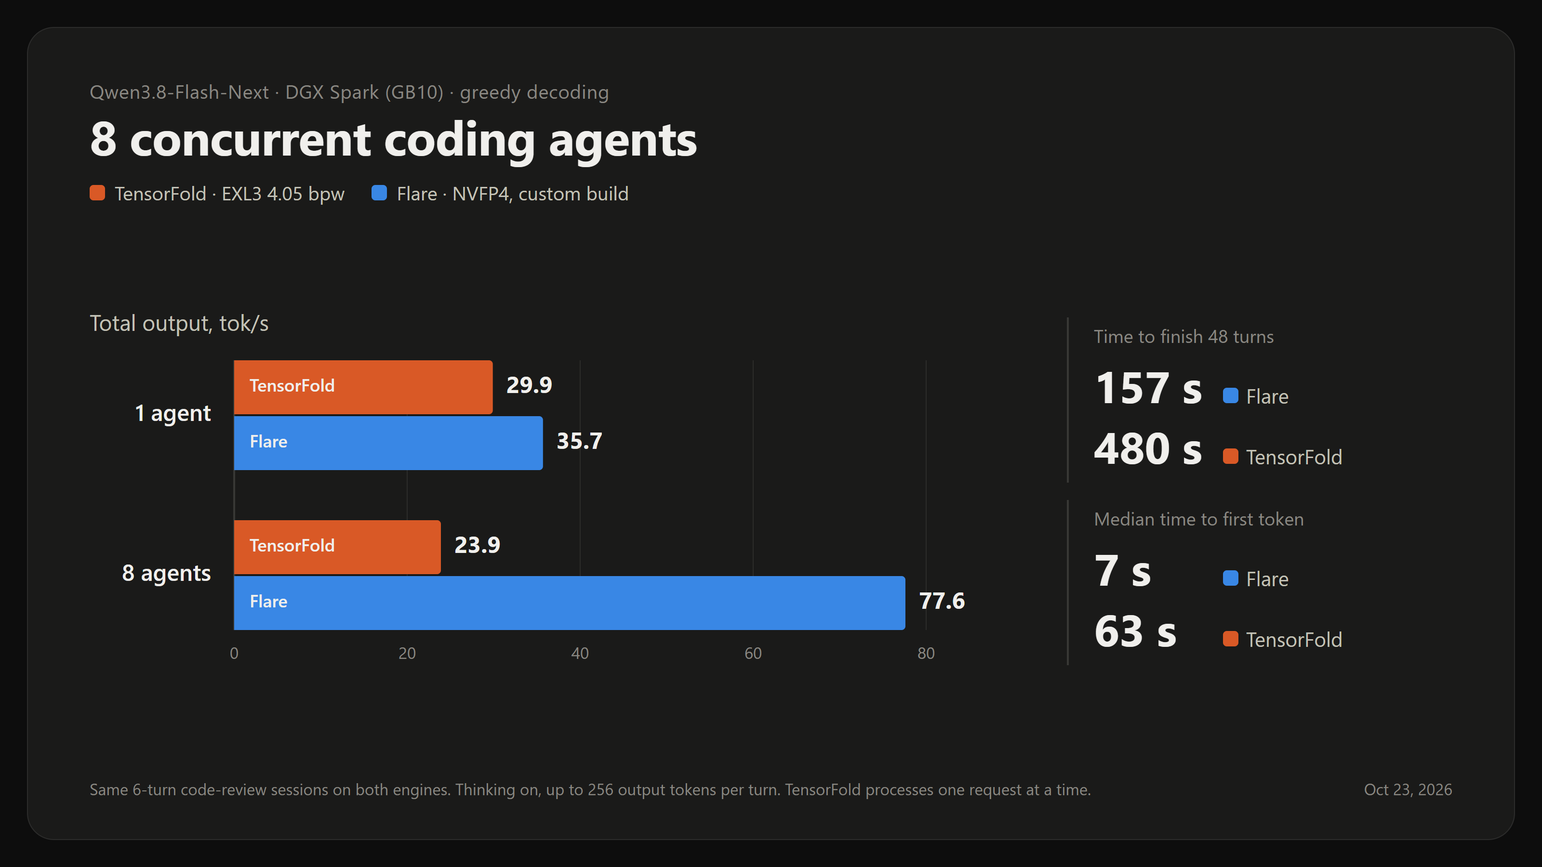
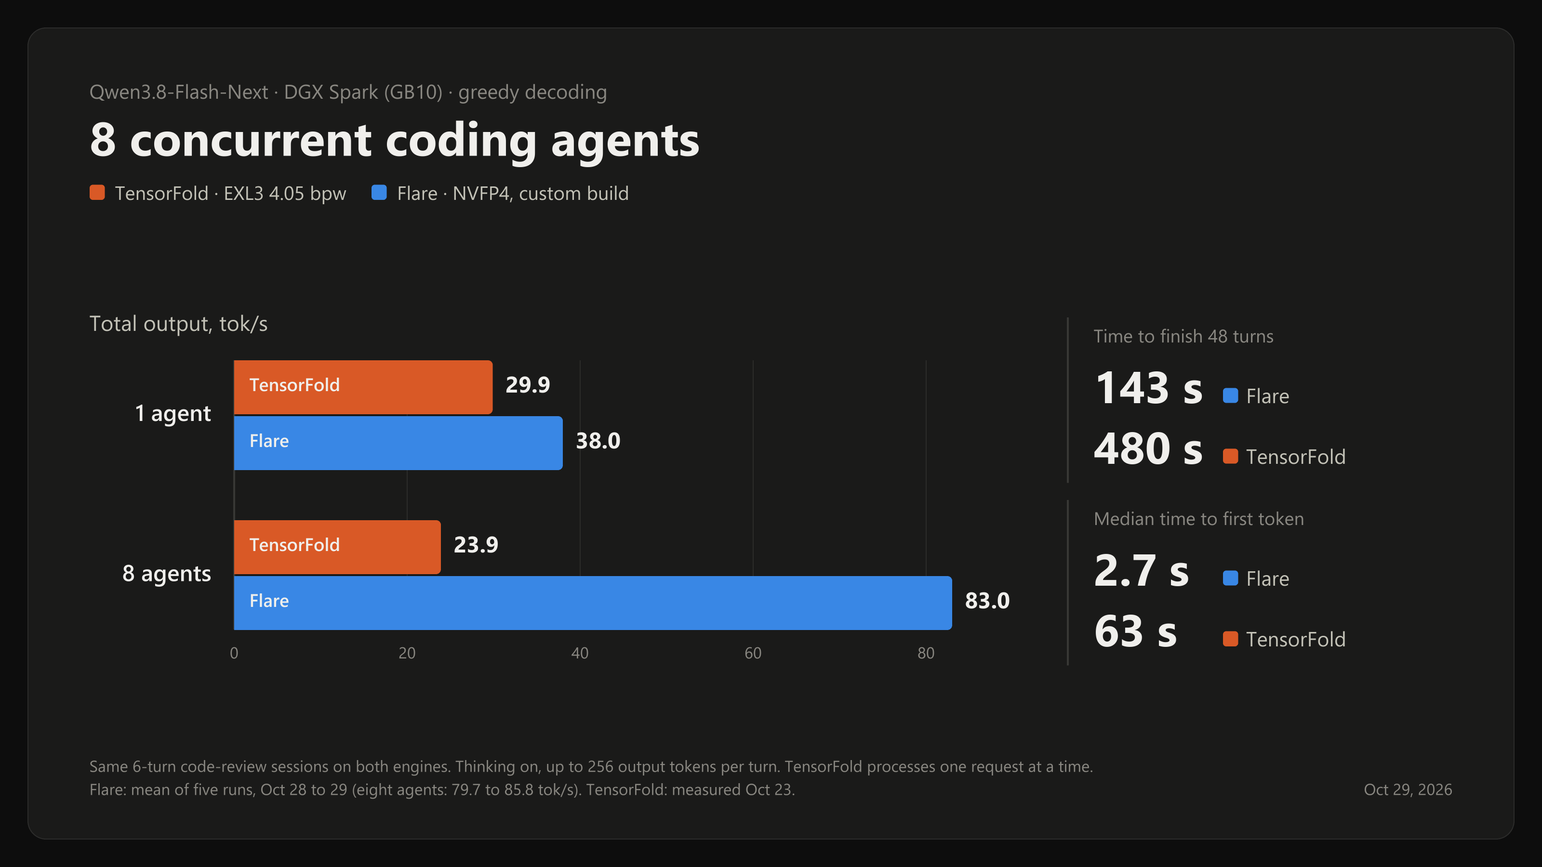
Move to Flare ca1f960 with runtime patches for agents
Pin Flare to ca1f960. Ignition now exports into Flare's model cache, so
export.sh records the new cache entry for the other scripts and
clean-staging.sh is gone. setup.sh applies every patch in patches/ and
rebuilds the native exporter each time; approve-key.sh also prints the
package's license.

Four patches: the top-k range, a mixed-prefill export fix, oldest-first
prefix-snapshot eviction (upstream's order since Oct 23 costs 30% with
eight agents) and FLARE_PREFILL_PRIORITY, which scales the scheduler's
value of prompt work.

Serving adds the throughput scheduler and prompt priority 16. The prefix
cache stays in GPU memory; the disk store is opt-in. The agent bench
records each turn's longest pause between tokens (max_gap_s).

README: this recipe on ca1f960 gives 83.0 tok/s and a 2.7 s first token
with eight agents (mean of five runs), what each runtime change adds,
and a redrawn eight-agents card.

diff --git a/bench/agents_bench.py b/bench/agents_bench.py
@@ -10,7 +10,7 @@ The files come from the Flare checkout set up by scripts/setup.sh (FLARE_SRC), i
 .venv, which is how the recipe's results were measured; the pinned commit and uv lockfile make
 the workload identical on another machine.
 """
-import json, os, threading, time, urllib.request
+import json, os, subprocess, threading, time, urllib.parse, urllib.request
 from pathlib import Path
 
 BASE = "http://127.0.0.1:8000"
@@ -53,6 +53,7 @@ def post_stream(messages, seed):
     t0 = time.monotonic()
     first = last = first_count = finish = None
     usage = {}
+    max_gap = 0.0  # longest wait between content chunks after the first token: a stall while others prefill
     with urllib.request.urlopen(req, timeout=900) as resp:
         for raw in resp:
             line = raw.decode().strip()
@@ -68,6 +69,8 @@ def post_stream(messages, seed):
                 if any(v for k, v in delta.items() if k != "role"):
                     if first is None:
                         first, first_count = now, usage.get("completion_tokens")
+                    else:
+                        max_gap = max(max_gap, now - last)
                     last = now
     end = time.monotonic()
     comp = usage.get("completion_tokens")
@@ -79,7 +82,7 @@ def post_stream(messages, seed):
         decode = (comp - first_count) / (last - first)
     return {"t0": t0, "end": end, "ttft_s": (first - t0) if first else None, "latency_s": end - t0, "decode_tps": decode,
             "prompt_tokens": usage.get("prompt_tokens"), "cached_tokens": cached, "completion_tokens": comp,
-            "finish_reason": finish}
+            "finish_reason": finish, "max_gap_s": max_gap}
 
 
 def session(level, rep, sid, chunks, start_at, rows, lock):
@@ -94,13 +97,24 @@ def session(level, rep, sid, chunks, start_at, rows, lock):
         row = {"level": level, "rep": rep, "session": sid, "turn": turn, "file": path,
                "start_s": r["t0"] - start_at, "end_s": r["end"] - start_at}
         row.update({k: r[k] for k in ("ttft_s", "latency_s", "decode_tps", "prompt_tokens", "cached_tokens",
-                                      "completion_tokens", "finish_reason")})
+                                      "completion_tokens", "finish_reason", "max_gap_s")})
         row["new_prompt_tokens"] = (row["prompt_tokens"] or 0) - row["cached_tokens"]
         with lock:
             rows.append(row)
 
 
-def run_level(level, rep, rows):
+def gpu_processes():
+    """Compute processes on this machine's GPUs, or None without nvidia-smi."""
+    try:
+        out = subprocess.run(["nvidia-smi", "--query-compute-apps=pid,name", "--format=csv,noheader"],
+                             capture_output=True, text=True, timeout=30, check=True).stdout
+    except (OSError, subprocess.SubprocessError):
+        return None
+    return [line.strip() for line in out.splitlines() if line.strip()]
+
+
+def run_level(level, rep, rows, watch_gpu):
+    """Run one level; returns the GPU process lists seen with more than one process (the server alone is one)."""
     lock = threading.Lock()
     start_at = time.monotonic() + 0.5
     threads = []
@@ -110,8 +124,13 @@ def run_level(level, rep, rows):
         th = threading.Thread(target=session, args=(level, rep, sid, chunks, start_at, rows, lock))
         th.start()
         threads.append(th)
-    for th in threads:
-        th.join()
+    shared = set()
+    while alive := [th for th in threads if th.is_alive()]:
+        procs = gpu_processes() if watch_gpu else None
+        if procs and len(procs) > 1:
+            shared.add("; ".join(procs))
+        alive[0].join(5)
+    return sorted(shared)
 
 
 if __name__ == "__main__":
@@ -123,10 +142,17 @@ if __name__ == "__main__":
     ap.add_argument("--base", default=BASE)
     ap.add_argument("--model", default=MODEL)
     ap.add_argument("--sampling-json", default="{}", help="extra sampling fields sent with every request")
+    ap.add_argument("--allow-busy-gpu", action="store_true",
+                    help="run even when another process besides the server uses the GPU")
     args = ap.parse_args()
     LEVELS, REPS, OUT = args.levels, args.reps, args.out
     BASE, MODEL, SAMPLING = args.base, args.model, json.loads(args.sampling_json)
     assert len(CHUNKS) >= sum(LEVELS) * REPS * TURNS, len(CHUNKS)
+    # Another GPU job during a run skews every number, so a server on this machine must have the GPU to itself.
+    watch_gpu = urllib.parse.urlsplit(BASE).hostname in ("127.0.0.1", "localhost", "::1")
+    procs = gpu_processes() if watch_gpu else None
+    if procs and len(procs) > 1 and not args.allow_busy_gpu:
+        raise SystemExit("The GPU is shared: " + "; ".join(procs) + ". Stop the other process or pass --allow-busy-gpu.")
     # Warm the shared system prompt once, as a running agent fleet would have it cached.
     warm = post_stream([{"role": "system", "content": SYSTEM}, {"role": "user", "content": "Ready?"}], seed=1)
     print("warmup", {k: warm[k] for k in ("prompt_tokens", "cached_tokens", "latency_s")}, flush=True)
@@ -134,11 +160,15 @@ if __name__ == "__main__":
     for rep in range(1, REPS + 1):
         for level in LEVELS:
             n0 = len(rows)
-            run_level(level, rep, rows)
+            shared = run_level(level, rep, rows, watch_gpu)
             lv = rows[n0:]
             wall = max(r["end_s"] for r in lv)
             out_tps = sum(r["completion_tokens"] for r in lv) / wall
             print(f"rep {rep} level {level}: {len(lv)} turns, wall {wall:.1f}s, output {out_tps:.1f} tok/s", flush=True)
+            if shared:
+                print("  WARNING: the GPU was shared during this level:", " | ".join(shared), flush=True)
+                for r in lv:
+                    r["gpu_shared"] = shared
             time.sleep(5)
     OUT.write_text(json.dumps(rows, indent=1))
     print("ALL_DONE", len(rows), flush=True)

diff --git a/README.md b/README.md
@@ -1,8 +1,8 @@
 # Qwen3.8 Flash-Next on Flare, one DGX Spark or ASUS Ascent GX10
 
-A **Flare** serving recipe for NVIDIA's NVFP4 Qwen3.8 Flash-Next on one NVIDIA GB10 with 128 GB unified memory. It rebuilds NVIDIA's runtime package from source with three changes the prebuilt package lacks: **greedy decoding** (top-k 1), **speculative capacity for eight concurrent agents**, and **mixed prefill**, then serves it with **three drafts per round**.
+A **Flare** serving recipe for NVIDIA's NVFP4 Qwen3.8 Flash-Next on one NVIDIA GB10 with 128 GB unified memory. It rebuilds NVIDIA's runtime package from source with three changes the prebuilt package lacks: **greedy decoding** (top-k 1), **speculative capacity for eight concurrent agents**, and **mixed prefill**, then serves it with **three drafts per round** on a Flare runtime patched for agents: **oldest-first prefix-cache eviction** and **prompts first** in the scheduler.
 
-**Built for agents.** With eight coding agents at once it produces **3.2×** the output of TensorFold running the EXL3 4.05 recipe, and reaches each agent's first token in 7 s instead of 63 s. One request at a time the engines are close, and quality is the same.
+**Built for agents.** With eight coding agents at once it produces **3.5×** the output of TensorFold running the EXL3 4.05 recipe, and reaches each agent's first token in 2.7 s instead of 63 s. One request at a time the engines are close, and quality is the same.
 
 ![8 concurrent coding agents](results/figures/eight-agents.png)
 
@@ -10,37 +10,58 @@ A **Flare** serving recipe for NVIDIA's NVFP4 Qwen3.8 Flash-Next on one NVIDIA G
 
 ```text
 Weights:          nvidia/Qwen3.8-Flash-Next-FP4-Local @ b9ce18a6 (NVFP4 experts, MXFP8 attention, QAD)
-Runtime:          Flare 0.1.0 and Ignition, NVIDIA/flare-local-inference @ 1fd1f91, built from source
-Patch:            top-k range 1-20 (top-k 1 is greedy); sampling defaults unchanged
+Runtime:          Flare 0.1.0 and Ignition, NVIDIA/flare-local-inference @ ca1f960, built from source
+Patches:          top-k range 1-20 (top-k 1 is greedy; sampling defaults unchanged);
+                  mixed-prefill export fix (upstream bug since Oct 24);
+                  oldest-first prefix-snapshot eviction (upstream's order since Oct 23 costs 30% with 8 agents);
+                  prompt priority setting (FLARE_PREFILL_PRIORITY)
 Package:          8 request slots, 4 image slots, up to 5 MTP drafts,
                   speculative capacity 48 tokens, mixed prefill graphs
-Serving:          3 drafts every round (--no-mtp-adaptive-verification --mtp-draft-tokens 3)
+Serving:          3 drafts every round (--no-mtp-adaptive-verification --mtp-draft-tokens 3),
+                  throughput scheduler (--scheduler-policy throughput), FLARE_PREFILL_PRIORITY=16
 Context:          262,144 tokens
 N-gram table:     26.8 GiB, read from disk with a 1 GiB RAM row cache
-Prefix cache:     64 snapshot slots, about 1.8M KV tokens
+Prefix cache:     64 snapshot slots, about 1.8M KV tokens, GPU memory only
 API:              OpenAI, Anthropic and Responses, 127.0.0.1:8000
 Model ID:         qwen38-flash-next-flare
 Signing:          your own local development key
 Hardware:         one GB10, 128 GB unified memory
 ```
 
-The weights are NVIDIA's own checkpoint; nothing is re-quantized. The package Ignition exports from it is about 108 GB and runs with 76.5 GiB of fixed GPU allocations.
+The weights are NVIDIA's own checkpoint; nothing is re-quantized. The package Ignition exports from it is about 107 GB (100 GiB) and runs with 76.5 GiB of fixed GPU allocations.
 
 ## Results
 
-All runs on one GB10, Qwen3.8-Flash-Next, measured Oct 22 to 24, 2026. TensorFold ran the published EXL3 4.05 recipe (`4.05bpw_h6_ng6`, MTP 6 at 0.70, BF16 KV, prompt kernels on).
+All runs on one GB10 with Qwen3.8-Flash-Next. This recipe's agent and single-request speed were measured Oct 28 and 29, 2026, and so were the Flare figures in the eight-agents card at the top; everything else, including quality, the other figures and TensorFold, Oct 22 to 24, when the recipe ran the previous Flare pin (1fd1f91) without runtime patches. TensorFold ran the published EXL3 4.05 recipe (`4.05bpw_h6_ng6`, MTP 6 at 0.70, BF16 KV, prompt kernels on).
 
 ### Several agents at once
 
-Six-turn code-review sessions: a shared ~5K-token agent prompt with tool definitions, a new source file each turn, replies up to 256 tokens, thinking on. Greedy on both engines.
+Six-turn code-review sessions: a shared ~5K-token agent prompt with tool definitions, a new source file each turn, replies up to 256 tokens, thinking on. Greedy on both engines. This recipe's row is the mean of five runs; with eight agents, single runs ranged from 79.7 to 85.8 tok/s.
 
 | Total output, tok/s | 1 agent | 8 agents | 48 turns finished in | Median first token, 8 agents |
 |---|---|---|---|---|
-| **Flare, this recipe** | **35.7** | **77.6** | **157 s** | **7 s** |
+| **Flare, this recipe** | **38.0** | **83.0** | **143 s** | **2.7 s** |
+| Flare, previous recipe (1fd1f91) | 35.7 | 77.6 | 157 s | 7 s |
 | TensorFold EXL3 4.05 | 29.9 | 23.9 | 480 s | 63 s |
 | TensorFold NVFP4 (same weights as Flare) | 35.0 | 24.5 | 478 s | 65 s |
 
 TensorFold serves one request at a time, so with eight agents the others wait in line and its prompt cache stops hitting (0% reuse). Flare batches all eight and keeps 85% of each prompt cached.
+
+### What each runtime change adds
+
+The same eight-agent sessions on Flare ca1f960 with three fixed drafts, adding one change at a time. Each row is the mean of two runs, except two: the throughput row ran in two separate sweeps, so it shows both means, and the last row is the mean of five runs.
+
+| Flare ca1f960 | 8 agents, tok/s | 48 turns finished in | Median first token | Prompt cached |
+|---|---|---|---|---|
+| No runtime patches | 54.4 | 215 s | 10.9 s | 70% |
+| + oldest-first eviction | 77.6 | 153 s | 7.1 s | 85% |
+| + throughput scheduler | 82.1 to 83.0 | 148 s | 5.0 to 5.5 s | 85% |
+| **+ prompt priority 16 (this recipe)** | **83.0** | **143 s** | **2.7 s** | 85% |
+
+- **Eviction.** Upstream commit `2c99983e` (Oct 23) changed which prefix snapshot Flare drops first when its 64 slots fill: closely spaced checkpoints now go before the oldest ones. With eight agents that cuts the cached share of each prompt from 85% to 70%, and the unpatched runtime is 30% slower than the previous pin. [`flare-oldest-first-eviction.patch`](patches/flare-oldest-first-eviction.patch) restores the oldest-first order.
+- **Throughput scheduler.** `--scheduler-policy throughput` is Flare's own preset; it turns off two of the scheduler's fairness prices (delivery fairness and decode age).
+- **Prompt priority.** Flare's scheduler values a prompt token at 1/64 of an output token, so a new turn's prompt waits until its fairness price has risen. [`flare-prefill-priority.patch`](patches/flare-prefill-priority.patch) multiplies the value of prompt work by `FLARE_PREFILL_PRIORITY` (unset means 1, upstream's pricing). At 16 each turn starts decoding sooner: the median first token was 2.4 to 3.0 s in all five runs, against 4.3 to 6.1 s in the four runs with the throughput scheduler alone. Total output barely moves: single runs ranged from 79.7 to 85.8 tok/s with priority 16 and 80.8 to 85.2 without, so its gain in throughput is within run-to-run noise.
+- **The cost of prompts first:** a reply already streaming pauses while another agent's prompt is processed. With eight agents, the 90th percentile of each reply's longest pause between tokens is 2.5 to 4.5 s, against 1.4 to 1.5 s without prompt priority. A long prompt does not freeze the others: with seven agents running and 8K- and 32K-token prompts arriving as an eighth client, the longest pause in two runs was 5.3 s at priority 16 and 8.8 s without priority, and the 32K prompt reached its first token in 16.1 s instead of 22.1 s. Priority 4 was as fast with eight agents (84.0 tok/s, two runs) and reached the first token in 3.1 to 3.4 s, but had the single longest pause in the long-prompt test, 11.8 s.
 
 ### Stock package vs this build
 
@@ -53,7 +74,7 @@ The same agent sessions on NVIDIA's prebuilt package and on this export, with th
 | Prebuilt package | 33.3 | 63.5 | 10.4 |
 | **This build** | **33.9** | **75.0** | **12.8** |
 
-With one agent the two are the same. With eight, the prebuilt package's speculative graphs fit only 8 token rows, so it stops drafting; this build keeps drafting and produces 18% more. Serving with three fixed drafts adds a little more on top (77.6 tok/s greedy).
+With one agent the two are the same. With eight, the prebuilt package's speculative graphs fit only 8 token rows, so it stops drafting; this build keeps drafting and produces 18% more. Serving with three fixed drafts added a little more on top (77.6 tok/s greedy, on the previous pin).
 
 ### One request at a time
 
@@ -61,11 +82,12 @@ With one agent the two are the same. With eight, the prebuilt package's speculat
 
 | | Decode, tok/s | 32K-token prompt to first token | GSM8K (50) | HumanEval (20) |
 |---|---|---|---|---|
-| **Flare, this recipe** | 50.7 | **14.1 s** | 49 | 13 (10 on a second run) |
+| **Flare, this recipe** | 52.5 | **13.4 s** | – | – |
+| Flare, previous recipe (1fd1f91) | 50.7 | 14.1 s | 49 | 13 (10 on a second run) |
 | TensorFold EXL3 4.05 | **75.7** | 20.0 s | 49 | 14 |
 | TensorFold NVFP4 | 59.9 | 19.6 s | 49 | 12 |
 
-Decode is the mean of four frozen prompts × three repeats of 400 tokens. The long-prompt probe asks for one token, so its total request time is its time to first token. TensorFold's times use its engine clock, Flare's a client clock including HTTP. Quality uses the harness's own GSM8K extraction and HumanEval Docker sandbox, greedy on both engines. With 70 items, differences of a few items are noise.
+Quality was scored on the previous recipe and not re-run on this one. Decode is the mean of four frozen prompts × three repeats of 400 tokens. The long-prompt probe asks for one token, so its total request time is its time to first token. TensorFold's times use its engine clock, Flare's a client clock including HTTP. Quality uses the harness's own GSM8K extraction and HumanEval Docker sandbox, greedy on both engines. With 70 items, differences of a few items are noise.
 
 ### Same weights, different engines
 
@@ -86,8 +108,8 @@ Claude Code on this recipe built a Kerr black hole visualizer, fully local. Meas
 ## Requirements
 
 - A DGX Spark or ASUS Ascent GX10 on Ubuntu 24.04 with the CUDA 13 toolkit (`nvcc`) under `/usr/local/cuda`.
-- **Disk:** about 300 GB free for the export: the 102 GB checkpoint, a ~80 GB staging copy and the 108 GB package. Afterwards the staging copy and the checkpoint can go, leaving the 108 GB package.
-- **Time:** about 15 minutes to build, an hour or less to download, about 2 hours for the first export.
+- **Disk:** about 230 GB free: the 102 GB checkpoint, the 107 GB package and about 20 GB of kernel caches. Ignition hard-links its staging files into the package, so there is no second copy. Afterwards the checkpoint can go.
+- **Time:** about 15 minutes to build, an hour or less to download, about 1.5 hours for the first export.
 - [uv](https://docs.astral.sh/uv/) and [Rust](https://rustup.rs) 1.88 or newer.
 
 ## 1. Prepare the host
@@ -113,7 +135,7 @@ cd ~/qwen38-flash-next-flare
 bash scripts/setup.sh
 ```
 
-This clones `NVIDIA/flare-local-inference` into `~/flare-local-inference`, checks out the pinned commit, applies [`patches/qwen38-topk-range.patch`](patches/qwen38-topk-range.patch), syncs Ignition's Python environment and builds the Flare runtime. Every path and pin lives in [`scripts/config.sh`](scripts/config.sh) and can be overridden from the environment.
+This clones `NVIDIA/flare-local-inference` into `~/flare-local-inference`, checks out the pinned commit, applies the four patches in [`patches/`](patches), syncs Ignition's Python environment (rebuilding the patched native exporter) and builds the Flare runtime. Every path and pin lives in [`scripts/config.sh`](scripts/config.sh) and can be overridden from the environment.
 
 ## 3. Download the checkpoint
 
@@ -129,11 +151,12 @@ bash scripts/download.sh
 bash scripts/export.sh
 ```
 
-Ignition loads the checkpoint, tunes kernels (about 50 min), compiles 135 forwards (about 40 min), warms them, captures 159 CUDA graphs and writes a 108 GB package signed with a development key it creates in `~/.config/flare`. Nothing else may use the GPU meanwhile. The script checks free disk, the memlock limit and the GPU before it starts.
+Ignition loads the checkpoint, tunes kernels (about 40 min), compiles 135 forwards (about 25 min), warms them, captures 159 CUDA graphs and publishes a 107 GB package into Flare's model cache (`~/.cache/flare/packages`), signed with a development key it creates in `~/.config/flare`. `export.sh` records the new cache entry in `~/.local/state/qwen38-flash-next-flare/package`, where the other scripts find it. Nothing else may use the GPU meanwhile. The script checks free disk, the memlock limit and the GPU before it starts.
 
-- If an export fails, run it again: kernel and forward caches make a rerun take about 20 minutes.
-- Out of disk near the end ("No space left on device") is the common failure: the staging copy and the package exist side by side for a while.
-- After a successful export, `bash scripts/clean-staging.sh` lists the staging blobs and `--delete` removes them (about 80 GB). Keep them if you will export again; a rerun reuses them.
+- If an export fails, run it again: kernel and forward caches make a rerun take about 30 minutes.
+- To re-export after a change to the export flags or the Flare build, `bash scripts/export.sh --reuse-weights` skips rehashing the weights (about 17 minutes). The weights are shared between versions, so a second version adds only about 1 GB.
+- `flare models list` shows the exported versions; `flare models remove MODEL@VERSION` and then `flare models gc` free an old one.
+- Packages exported by the earlier pin (1fd1f91, a single `.safetensors` file) do not load in this Flare: it asks for a re-export.
 
 ## 5. Approve your signing key (first use)
 
@@ -152,6 +175,10 @@ bash scripts/start-flare.sh
 Flare runs in a dedicated tmux server (`tmux -L flare attach -t flare:0` to watch it) and is ready in about 30 seconds. A `keep` window holds that tmux server open with the memlock limit of the login that created it, so later starts and restarts work from any login, Tailscale SSH included. `bash scripts/stop-flare.sh` stops Flare and leaves the tmux server up.
 
 If another server holds the GPU, set `STOP_SERVICE=<systemd --user unit>`: `start-flare.sh` stops it first and `stop-flare.sh` starts it again.
+
+Flare serves with three drafts per round, the throughput scheduler and `FLARE_PREFILL_PRIORITY=16`, so each agent's new turn starts sooner (see [What each runtime change adds](#what-each-runtime-change-adds)). `SERVE_FLAGS` and `PREFILL_PRIORITY` change them; `PREFILL_PRIORITY=1` is upstream's scheduling.
+
+Flare can also keep its prefix cache on disk, but the recipe leaves that off (measurements in [Notes](#notes)). `PREFIX_CACHE_DISK_LIMIT=20G` turns it on: every prefix snapshot is also written to `~/.cache/flare/prefix-cache` (`PREFIX_CACHE_DISK` moves it), and one evicted from the GPU is read back when its session returns. Flare keeps one subdirectory per package layout, so after a re-export the old ones can be deleted while Flare is stopped.
 
 ## 7. Use it
 
@@ -183,7 +210,7 @@ Every model slot (main, subagents, background) points at the one model, so Claud
 
 ## Benchmarks
 
-- [`bench/agents_bench.py`](bench/agents_bench.py): the agent-session test above. `FLARE_SRC=~/flare-local-inference python3 bench/agents_bench.py --levels 1 8 --reps 1 --sampling-json '{"top_k": 1}' --out agents.json`. It draws its files from the Flare checkout made by `setup.sh`, so the workload is the same on any machine.
+- [`bench/agents_bench.py`](bench/agents_bench.py): the agent-session test above. `FLARE_SRC=~/flare-local-inference python3 bench/agents_bench.py --levels 1 8 --reps 1 --sampling-json '{"top_k": 1}' --out agents.json`. It draws its files from the Flare checkout made by `setup.sh`, so the workload is the same on any machine. It refuses to start while another process shares the GPU with the server (`--allow-busy-gpu` overrides), and flags any level during which one appears. Each turn also records its longest pause between tokens after the first (`max_gap_s`).
 - [`bench/live_metrics.py`](bench/live_metrics.py) and [`bench/meter_report.py`](bench/meter_report.py): a passive speed meter for a real session, sampling Flare's `/metrics` every 2 s, and its report.
 - Decode, long-prompt and quality figures come from the frozen `flashnext-tf405` harness of the TensorFold recipe: four speed prompts × three repeats, three long-prompt probes, 50 GSM8K and 20 HumanEval items.
 
@@ -192,6 +219,8 @@ Every model slot (main, subagents, background) points at the one model, so Claud
 - **Greedy and the stock package.** NVIDIA's prebuilt package fixes every sampling parameter; requests can only set the seed. That is why this recipe re-exports with a top-k range.
 - **Drafting with many agents.** The prebuilt package captured speculative graphs for at most 8 token rows, so with eight requests in a batch drafting switched off. This export captures widths 1 to 6 for batches up to 8 (48 rows): +18% total output with eight agents.
 - **Benchmark hygiene.** Nothing else may use the server during a run; one stock-package run that shared it with a live Claude Code session came out at less than half speed. The agent workload also depends on the files in the checkout, so compare runs made on the same checkout.
+- **Prefix cache on disk.** Measured Oct 28 on ca1f960 without the eviction patch, three fixed drafts, two runs each: eight agents produced 73.8 tok/s with a 20 GiB disk store and 56.4 without, with 84% vs 70% of each prompt cached. The eviction patch alone does better (77.6 tok/s, 85% cached) and writes nothing, while the disk store wrote about 30 GB per run of the agent benchmark to read back about 4 GB, so the recipe leaves it off. The two were not measured together. If you turn it on, check the drive's endurance rating: a busy agent fleet writes far more.
+- **Tried on ca1f960 and not kept:** resident n-gram scales (`--embedding-table-resident-scales`: 32K prompts 0.7 s faster, but 3 GiB less KV cache and 81.0 vs 82.1 tok/s with eight agents), a re-export with mixed-prefill graphs at more prompt sizes (+2.5% with eight agents, but one of two rounds was slower), and keeping fewer, wider-spaced prompt checkpoints (76.3 vs 77.6 tok/s).
 - **Fixed three drafts** beat adaptive verification and five fixed drafts on the agent workload (1 and 8 agents); five drafts was fastest only on single-stream decode.
 - One export attempt failed during warm-up with a one-off CUDA illegal instruction (Xid 13); the next attempt, with the same cached kernels, succeeded.
 
